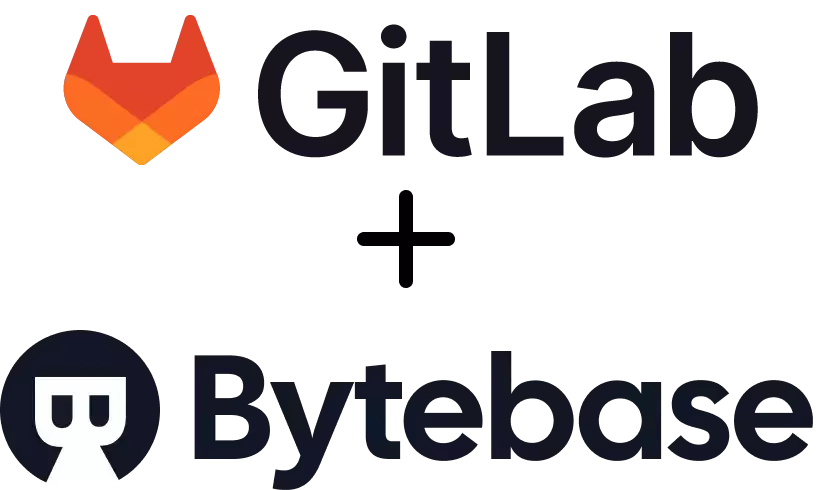
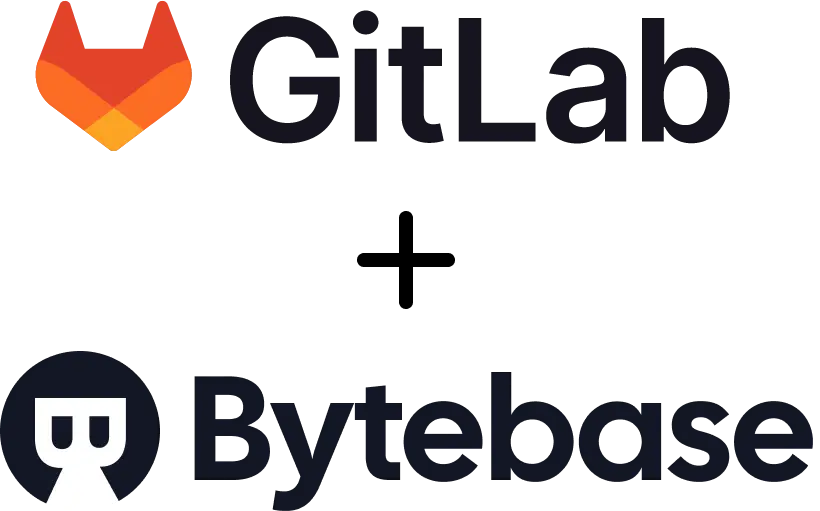
docs: add github page (#459)

diff --git a/pages/integration/github.vue b/pages/integration/github.vue
@@ -7,16 +7,16 @@
         <span
           class="mt-1 block text-4xl tracking-tight font-extrabold sm:text-5xl xl:text-6xl"
         >
-          <span class="block text-gray-900">GitLab + Bytebase</span>
+          <span class="block text-gray-900">GitHub + Bytebase</span>
           <span class="block text-indigo-600">Database-as-Code</span>
         </span>
       </h1>
       <h2
         class="mt-3 text-base text-gray-500 sm:mt-5 sm:text-xl lg:text-lg xl:text-xl"
       >
-        {{ $t("integration.gitlab-feature") }}
+        {{ $t("integration.github-feature") }}
         <nuxt-link
-          :to="localePath('/docs/vcs-integration/self-host-gitlab')"
+          :to="localePath('/docs/vcs-integration/github-com')"
           target="_blank"
           class="text-blue-700"
           >{{ $t("integration.view-detailed-guide") }}</nuxt-link
@@ -32,7 +32,7 @@
       class="mt-12 relative sm:max-w-lg sm:mx-auto lg:mt-0 lg:max-w-none lg:mx-0 lg:col-span-6 lg:flex lg:items-center"
     >
       <div class="relative mx-auto w-full rounded-lg lg:max-w-md">
-        <img class="w-full" src="~/assets/bytebase_and_gitlab.webp" alt="" />
+        <img class="w-full" src="~/assets/bytebase_and_github.webp" alt="" />
       </div>
     </div>
   </div>
@@ -44,13 +44,13 @@ import { defineComponent } from "@nuxtjs/composition-api";
 export default defineComponent({
   layout: "integration",
   head: {
-    title: "Integration with GitLab",
+    title: "Integration with GitHub",
     meta: [
       {
-        hid: "Integration with GitLab",
-        name: "Integration with GitLab",
+        hid: "Integration with GitHub",
+        name: "Integration with GitHub",
         content:
-          "Bytebase integrates with GitLab to allow team to manage database migration scripts in the GitLab repository. Migration pipeline is triggered on observing new migration script push event.",
+          "Bytebase integrates with GitHub to allow team to manage database migration scripts in the GitHub repository. Migration pipeline is triggered on observing new migration script push event.",
       },
     ],
   },

diff --git a/components/Footer.vue b/components/Footer.vue
@@ -70,6 +70,13 @@
             </li>
             <li>
               <nuxt-link
+                :to="localePath('/integration/github')"
+                class="text-base text-gray-500 hover:text-gray-900"
+                >GitHub</nuxt-link
+              >
+            </li>
+            <li>
+              <nuxt-link
                 :to="localePath('/integration/slack')"
                 class="text-base text-gray-500 hover:text-gray-900"
                 >Slack</nuxt-link

diff --git a/layouts/usecase.vue b/layouts/usecase.vue
@@ -21,7 +21,7 @@
           <ScreenshotSection />
         </div>
         <h2
-          class="mt-16 lg:mt-56 text-center text-3xl sm:text-5xl font-extrabold text-gray-900 tracking-tight"
+          class="mt-16 lg:mt-24 text-center text-3xl sm:text-5xl font-extrabold text-gray-900 tracking-tight"
         >
           {{ $t("common.features") }}
         </h2>

diff --git a/pages/database-feature/_slug/index.vue b/pages/database-feature/_slug/index.vue
@@ -54,7 +54,7 @@
         <ScreenshotSection />
       </div>
       <h2
-        class="mt-16 lg:mt-56 text-center text-3xl sm:text-5xl font-extrabold text-gray-900 tracking-tight"
+        class="mt-16 lg:mt-24 text-center text-3xl sm:text-5xl font-extrabold text-gray-900 tracking-tight"
       >
         {{ $t("common.features") }}
       </h2>

diff --git a/pages/vcs/_slug/index.vue b/pages/vcs/_slug/index.vue
@@ -55,7 +55,7 @@
         <ScreenshotSection />
       </div>
       <h2
-        class="mt-16 lg:mt-56 text-center text-3xl sm:text-5xl font-extrabold text-gray-900 tracking-tight"
+        class="mt-16 lg:mt-24 text-center text-3xl sm:text-5xl font-extrabold text-gray-900 tracking-tight"
       >
         {{ $t("common.features") }}
       </h2>

diff --git a/pages/webhook/_slug/index.vue b/pages/webhook/_slug/index.vue
@@ -64,7 +64,7 @@
         <ScreenshotSection />
       </div>
       <h2
-        class="mt-16 lg:mt-56 text-center text-3xl sm:text-5xl font-extrabold text-gray-900 tracking-tight"
+        class="mt-16 lg:mt-24 text-center text-3xl sm:text-5xl font-extrabold text-gray-900 tracking-tight"
       >
         {{ $t("common.features") }}
       </h2>

diff --git a/layouts/integration.vue b/layouts/integration.vue
@@ -17,7 +17,7 @@
           <ScreenshotSection />
         </div>
         <h2
-          class="mt-16 lg:mt-56 text-center text-3xl sm:text-5xl font-extrabold text-gray-900"
+          class="mt-16 sm:mt-24 text-center text-3xl sm:text-5xl font-extrabold text-gray-900"
         >
           {{ $t("common.features") }}
         </h2>
